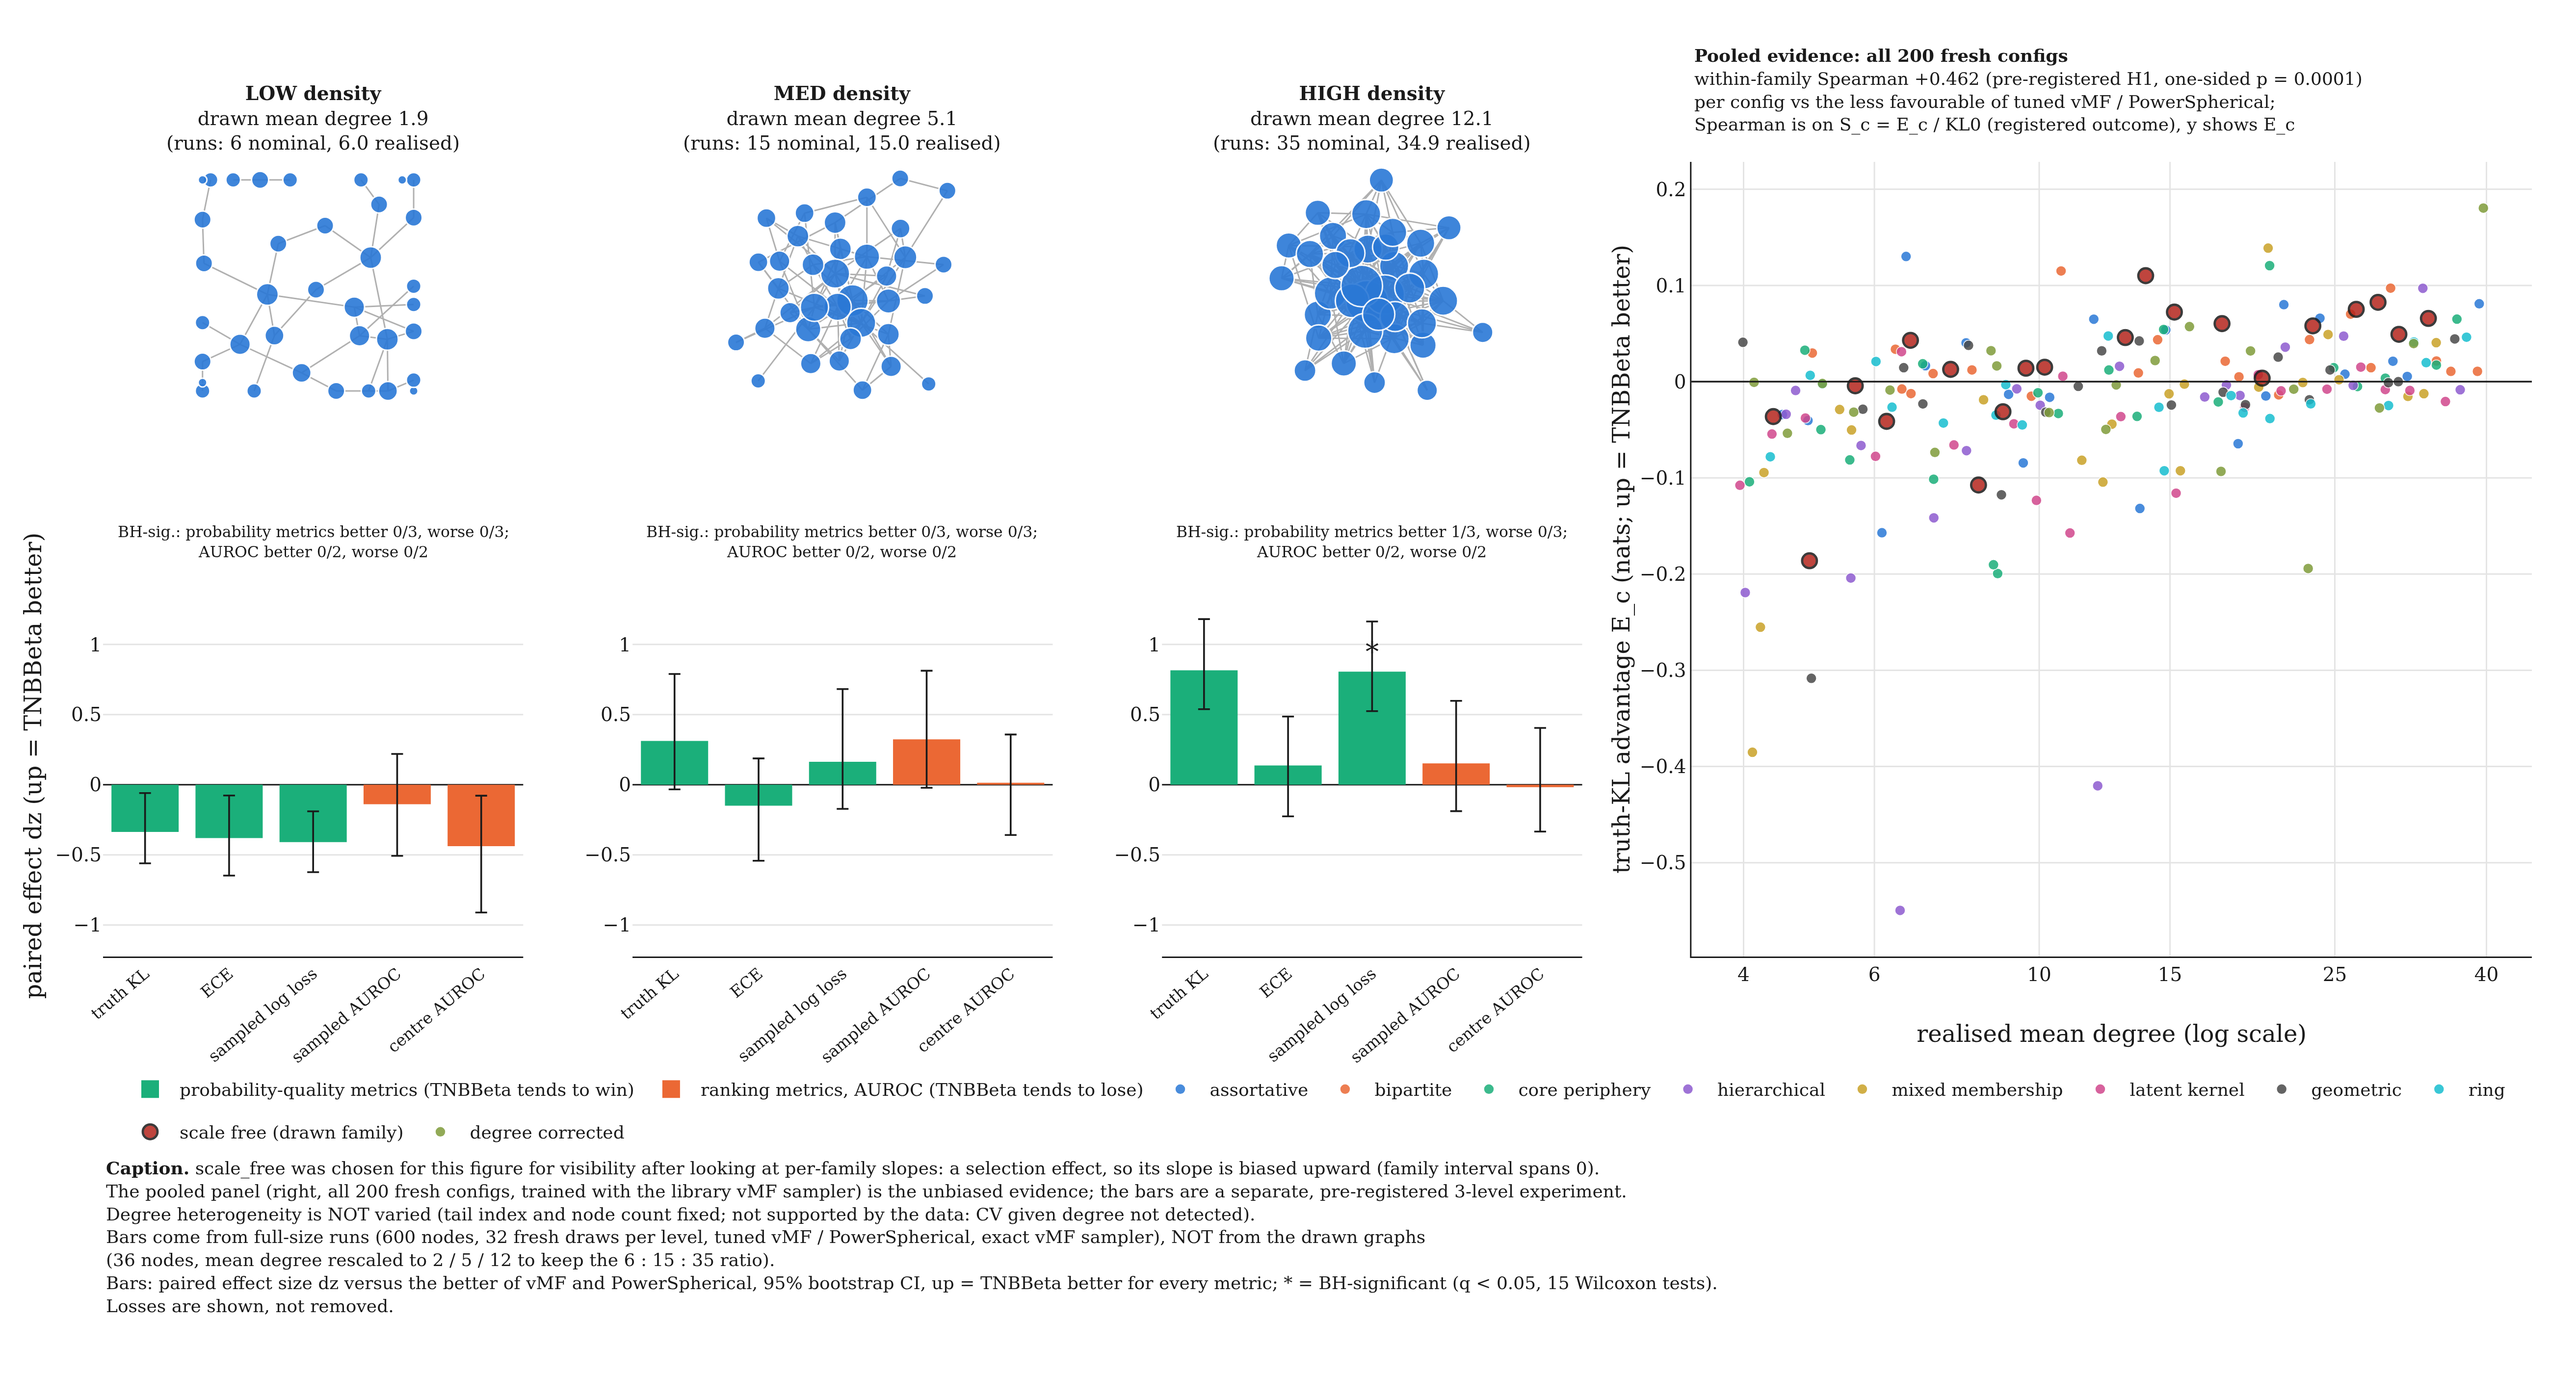
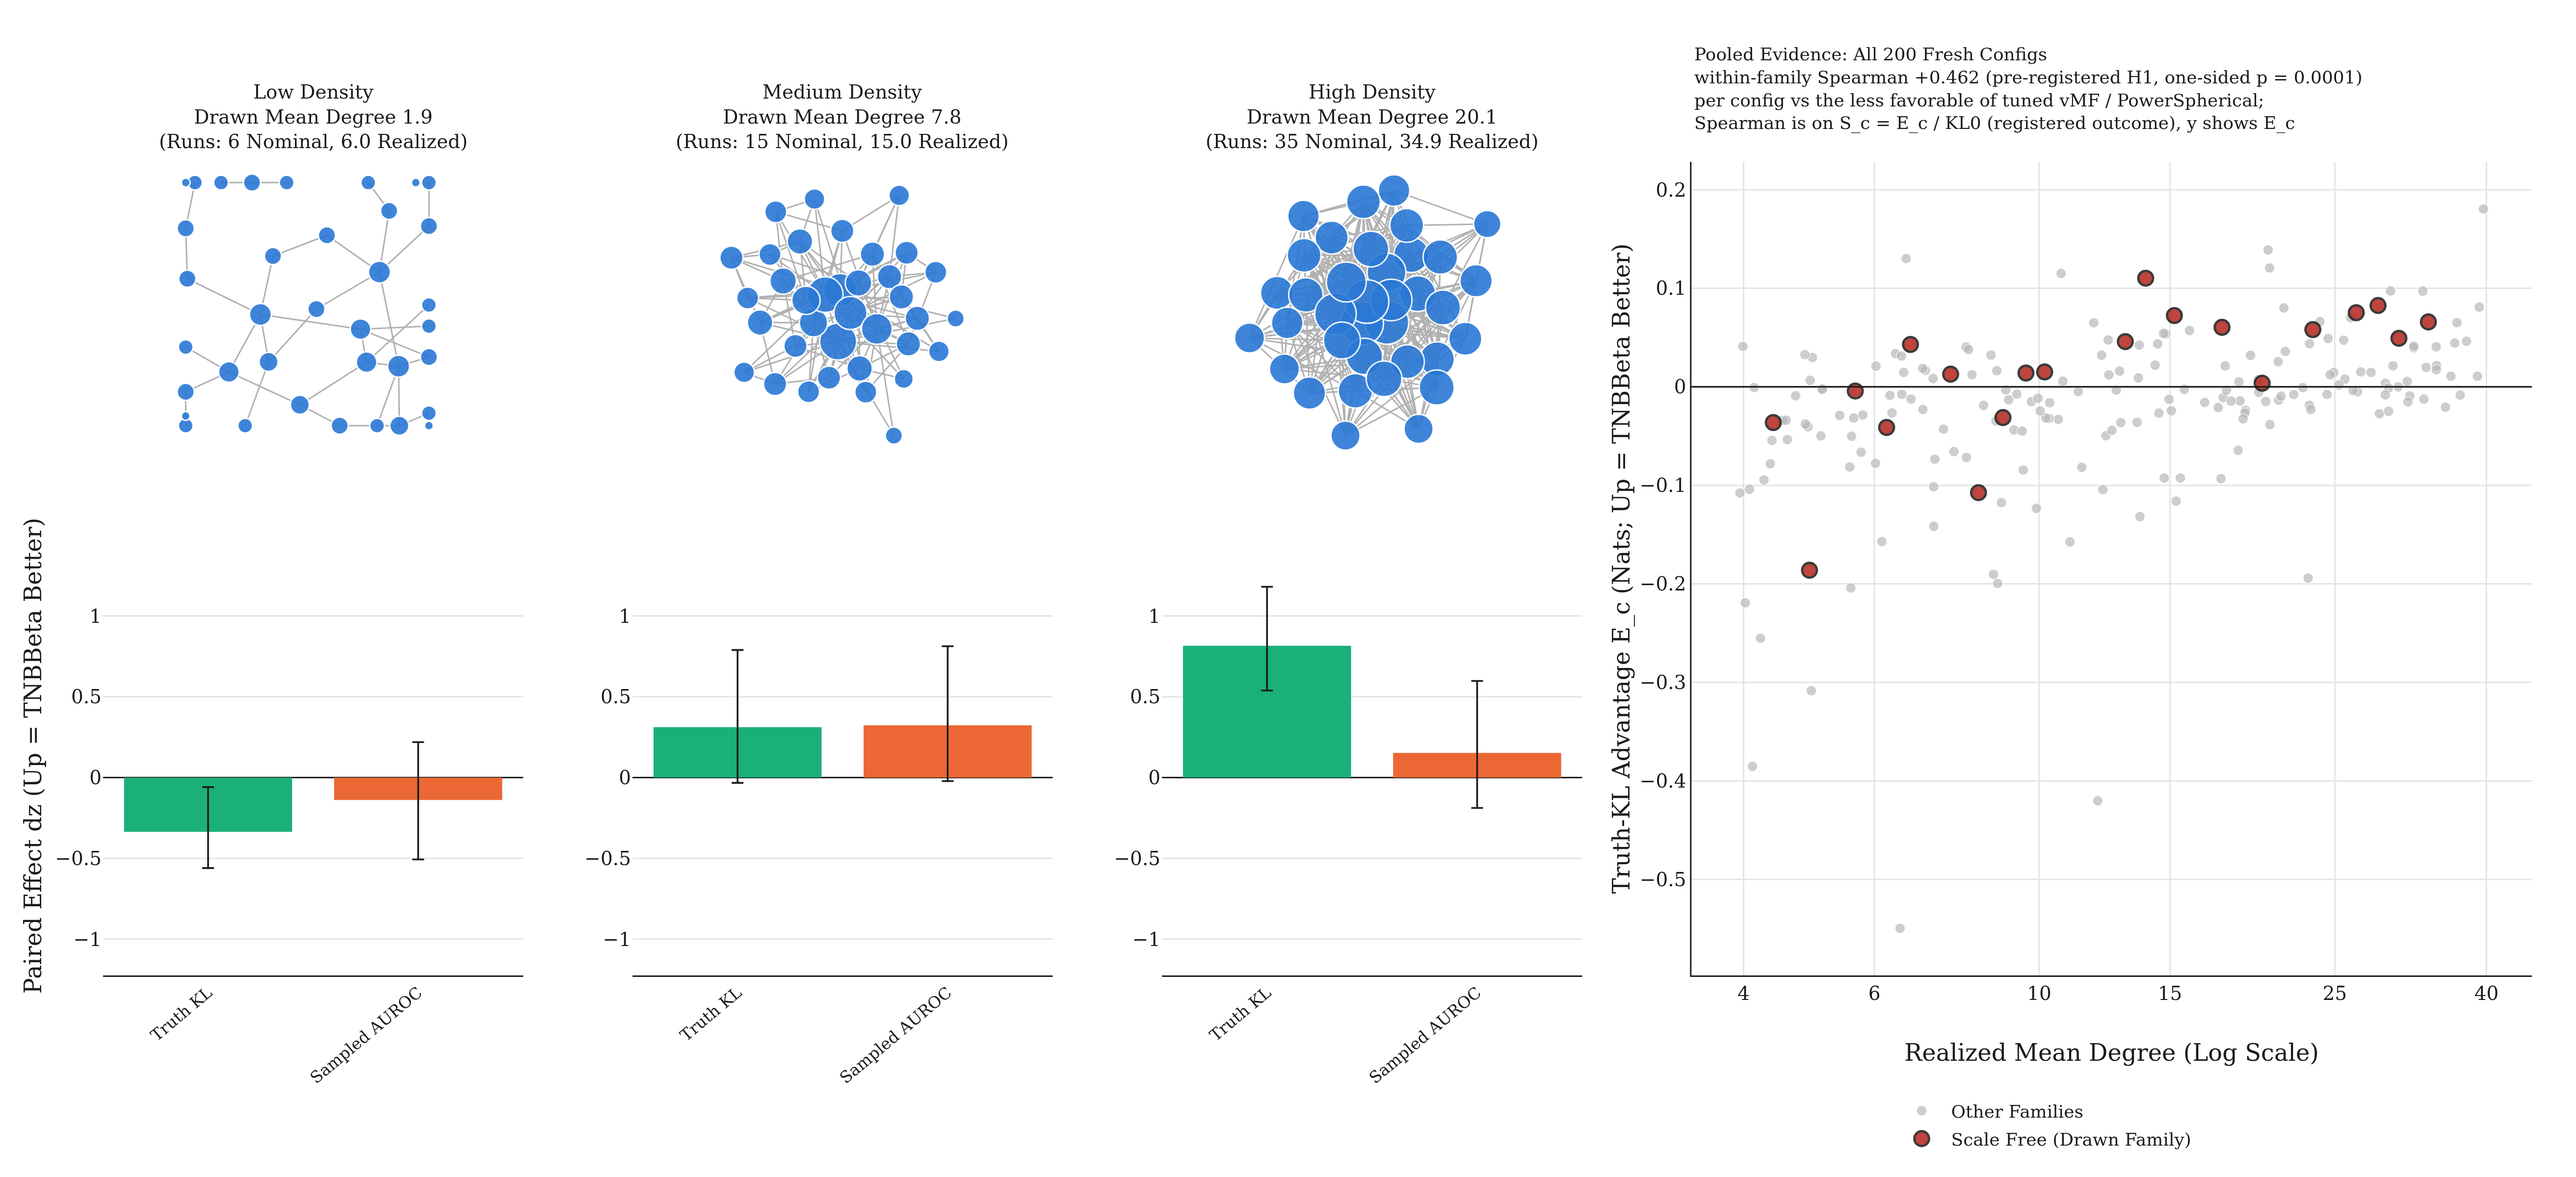
Density figure cosmetics: two bars, grey other families, no caption, title case, wider drawn densities

diff --git a/apps/eval/scale_free_density_figure.py b/apps/eval/scale_free_density_figure.py
@@ -56,8 +56,9 @@ from tnbbeta_vae.plotting import FONT_FAMILY, TEMPLATE_NAME
 Array = npt.NDArray[np.float64]
 
 LEVELS = ("low", "med", "high")
+LEVEL_NAMES = {"low": "Low", "med": "Medium", "high": "High"}
 RUN_DEGREES = {"low": 6.0, "med": 15.0, "high": 35.0}
-DRAWN_DEGREES = {"low": 2.0, "med": 5.0, "high": 12.0}
+DRAWN_DEGREES = {"low": 2.0, "med": 8.0, "high": 20.0}
 NUM_NODES = 600
 CONTRAST = 13.0
 DRAWN_NODES = 36
@@ -77,6 +78,7 @@ PROBABILITY_METRICS = ("truth_kl", "ece", "sampled_log_loss")
 STAMP = "2026-11-03"
 INK = "#1a1a1a"
 GRID = "#e4e4e4"
+OTHER_GREY = "#b8b8b8"
 GROUP_COLOURS = {"probability": "#1baf7a", "ranking": "#eb6834"}
 FAMILY_COLOURS = dict(
     zip(
@@ -289,7 +291,7 @@ def pooled_points() -> list[dict[str, Any]]:
     """Per fresh config: realised degree, nominal degree, and the truth-KL outcome ``E_c``.
 
     ``E_c`` is the pre-registered H1 outcome: the mean over draws of the paired truth-KL
-    difference versus the less favourable of ``vmf_init`` / ``power_spherical_init``
+    difference versus the less favorable of ``vmf_init`` / ``power_spherical_init``
     (positive = TNBBeta better).
     """
     table = load_table("fresh")
@@ -538,18 +540,6 @@ def drawn_graph(level: str) -> dict[str, Any]:
 # ----------------------------------------------------------------------- figure
 
 
-CAPTION = (
-    "<b>Caption.</b> scale_free was chosen for this figure for visibility after looking at per-family slopes: a selection effect, so its slope is biased upward "
-    "(family interval spans 0).<br>"
-    "The pooled panel (right, all 200 fresh configs, trained with the library vMF sampler) is the unbiased evidence; the bars are a separate, pre-registered 3-level experiment.<br>"
-    "Degree heterogeneity is NOT varied (tail index and node count fixed; not supported by the data: CV given degree not detected).<br>"
-    "Bars come from full-size runs (600 nodes, 32 fresh draws per level, tuned vMF / PowerSpherical, exact vMF sampler), NOT from the drawn graphs<br>"
-    "(36 nodes, mean degree rescaled to 2 / 5 / 12 to keep the 6 : 15 : 35 ratio).<br>"
-    "Bars: paired effect size dz versus the better of vMF and PowerSpherical, 95% bootstrap CI, up = TNBBeta better for every metric; "
-    "* = BH-significant (q &lt; 0.05, 15 Wilcoxon tests).<br>Losses are shown, not removed."
-)
-
-
 def build_figure(results: dict[str, Any]) -> go.Figure:
     """Builds the density figure from the analysis results (layout fixed in the pre-registration)."""
     figure = make_subplots(
@@ -562,40 +552,28 @@ def build_figure(results: dict[str, Any]) -> go.Figure:
             [{}, {}, {}, None],
         ],
         horizontal_spacing=0.045,
-        vertical_spacing=0.2,
+        vertical_spacing=0.1,
     )
     bounds = _bar_bounds(results)
     for column, level in enumerate(LEVELS, start=1):
         _add_drawing(figure, level, column, results)
-        _add_bars(figure, level, column, results, bounds, legend=column == 1)
+        _add_bars(figure, level, column, results, bounds, legend=False)
     _add_pooled(figure, results["pooled"])
     figure.update_layout(
         template=TEMPLATE_NAME,
         font={"family": FONT_FAMILY, "color": INK, "size": 13},
         width=1750,
-        height=950,
+        height=800,
         plot_bgcolor="white",
         legend={
             "orientation": "h",
             "yanchor": "top",
             "y": -0.14,
-            "x": 0.5,
+            "x": 0.8,
             "xanchor": "center",
         },
-        margin={"l": 70, "r": 30, "t": 110, "b": 300},
+        margin={"l": 70, "r": 30, "t": 110, "b": 120},
         barmode="overlay",
-    )
-    figure.add_annotation(
-        text=CAPTION,
-        xref="paper",
-        yref="paper",
-        x=0.0,
-        y=-0.25,
-        xanchor="left",
-        yanchor="top",
-        showarrow=False,
-        align="left",
-        font={"size": 12},
     )
     return figure
 
@@ -659,8 +637,8 @@ def _add_drawing(
     )
     figure.add_annotation(
         text=(
-            f"<b>{level.upper()} density</b><br>drawn mean degree {degree.mean():.1f}"
-            f"<br>(runs: {RUN_DEGREES[level]:g} nominal, {covariates['realised_degree']:.1f} realised)"
+            f"{LEVEL_NAMES[level]} Density<br>Drawn Mean Degree {degree.mean():.1f}"
+            f"<br>(Runs: {RUN_DEGREES[level]:g} Nominal, {covariates['realised_degree']:.1f} Realized)"
         ),
         xref=f"x{column if column > 1 else ''} domain",
         yref=f"y{column if column > 1 else ''} domain",
@@ -684,11 +662,11 @@ def _add_bars(
 ) -> None:
     records = results["levels"][level]
     for group, metrics in (
-        ("probability", PROBABILITY_METRICS),
-        ("ranking", ("sampled_auc", "centre_auc")),
+        ("probability", ("truth_kl",)),
+        ("ranking", ("sampled_auc",)),
     ):
         chosen = [r for r in records if r["metric"] in metrics]
-        names = dict(BAR_METRICS)
+        names = {"truth_kl": "Truth KL", "sampled_auc": "Sampled AUROC"}
         figure.add_trace(
             go.Bar(
                 x=[names[r["metric"]] for r in chosen],
@@ -730,48 +708,50 @@ def _add_bars(
         zeroline=True,
         zerolinecolor=INK,
         gridcolor=GRID,
-        title_text="paired effect dz (up = TNBBeta better)" if column == 1 else None,
+        title_text="Paired Effect dz (Up = TNBBeta Better)" if column == 1 else None,
         row=2,
         col=column,
     )
     figure.update_xaxes(
         tickangle=-40, linecolor=INK, tickfont={"size": 11}, row=2, col=column
     )
-    figure.add_annotation(
-        text=results["summary"][level].replace("; ", ";<br>"),
-        xref=f"x{column + 4} domain",
-        yref=f"y{column + 4} domain",
-        x=0.5,
-        y=1.03,
-        xanchor="center",
-        yanchor="bottom",
-        showarrow=False,
-        font={"size": 10.5},
-    )
 
 
 def _add_pooled(figure: go.Figure, pooled: dict[str, Any]) -> None:
     points = pooled["points"]
-    for family in FAMILIES:
-        chosen = [p for p in points if p["family"] == family]
+    others = [p for p in points if p["family"] != "scale_free"]
+    drawn = [p for p in points if p["family"] == "scale_free"]
+    for chosen, name, marker in (
+        (
+            others,
+            "Other Families",
+            {
+                "size": 7,
+                "color": OTHER_GREY,
+                "opacity": 0.7,
+                "line": {"color": "white", "width": 0.5},
+            },
+        ),
+        (
+            drawn,
+            "Scale Free (Drawn Family)",
+            {
+                "size": 10,
+                "color": FAMILY_COLOURS["scale_free"],
+                "opacity": 0.85,
+                "line": {"color": INK, "width": 1.6},
+            },
+        ),
+    ):
         figure.add_trace(
             go.Scatter(
                 x=[p["degree"] for p in chosen],
                 y=[p["E"] for p in chosen],
                 mode="markers",
-                marker={
-                    "size": 10 if family == "scale_free" else 7,
-                    "color": FAMILY_COLOURS[family],
-                    "opacity": 0.85,
-                    "line": {
-                        "color": INK if family == "scale_free" else "white",
-                        "width": 1.6 if family == "scale_free" else 0.5,
-                    },
-                },
+                marker=marker,
                 text=[p["config"] for p in chosen],
                 hovertemplate="%{text}<br>degree %{x:.1f}<br>E_c %{y:+.4f}<extra></extra>",
-                name=family.replace("_", " ")
-                + (" (drawn family)" if family == "scale_free" else ""),
+                name=name,
             ),
             row=1,
             col=4,
@@ -784,7 +764,7 @@ def _add_pooled(figure: go.Figure, pooled: dict[str, Any]) -> None:
     )
     figure.update_xaxes(
         type="log",
-        title_text="realised mean degree (log scale)",
+        title_text="Realized Mean Degree (Log Scale)",
         tickvals=[4, 6, 10, 15, 25, 40],
         ticktext=["4", "6", "10", "15", "25", "40"],
         gridcolor=GRID,
@@ -793,7 +773,7 @@ def _add_pooled(figure: go.Figure, pooled: dict[str, Any]) -> None:
         col=4,
     )
     figure.update_yaxes(
-        title_text="truth-KL advantage E_c (nats; up = TNBBeta better)",
+        title_text="Truth-KL Advantage E_c (Nats; Up = TNBBeta Better)",
         gridcolor=GRID,
         linecolor=INK,
         row=1,
@@ -801,9 +781,9 @@ def _add_pooled(figure: go.Figure, pooled: dict[str, Any]) -> None:
     )
     figure.add_annotation(
         text=(
-            f"<b>Pooled evidence: all {len(points)} fresh configs</b><br>"
+            f"Pooled Evidence: All {len(points)} Fresh Configs<br>"
             f"within-family Spearman {pooled['h1_spearman']:+.3f} (pre-registered H1, one-sided p = 0.0001)<br>"
-            "per config vs the less favourable of tuned vMF / PowerSpherical;<br>"
+            "per config vs the less favorable of tuned vMF / PowerSpherical;<br>"
             "Spearman is on S_c = E_c / KL0 (registered outcome), y shows E_c"
         ),
         xref="x4 domain",

diff --git a/tests/apps/test_scale_free_density_figure.py b/tests/apps/test_scale_free_density_figure.py
@@ -167,16 +167,19 @@ def test_figure_layout_matches_the_preregistration() -> None:
     assert layout.template.layout.font.family == sdf.FONT_FAMILY
     bars = [t for t in cast("list[Any]", list(figure.data)) if t.type == "bar"]
     assert len(bars) == 6  # two groups x three levels
-    assert sum(len(b.x) for b in bars) == 15
+    assert sum(len(b.x) for b in bars) == 6  # truth KL and sampled AUROC per level
+    assert not any(b.showlegend for b in bars)
     scatters = [
         t
         for t in cast("list[Any]", list(figure.data))
         if t.type == "scatter" and t.mode == "markers"
     ]
-    assert len(scatters) == 3 + len(sdf.FAMILIES)  # drawn graphs + one per family
+    assert len(scatters) == 3 + 2  # drawn graphs + other families + scale free
+    legend_names = [t.name for t in scatters if t.name]
+    assert legend_names == ["Other Families", "Scale Free (Drawn Family)"]
     text = " ".join(a.text for a in layout.annotations)
-    for phrase in ("selection", "NOT varied", "NOT from the drawn graphs", "unbiased"):
-        assert phrase.lower() in text.lower() or phrase in text
+    assert "<b>" not in text
+    assert "Caption" not in text
 
 
 def test_density_stage_is_extended_and_has_its_own_seed_range() -> None:
